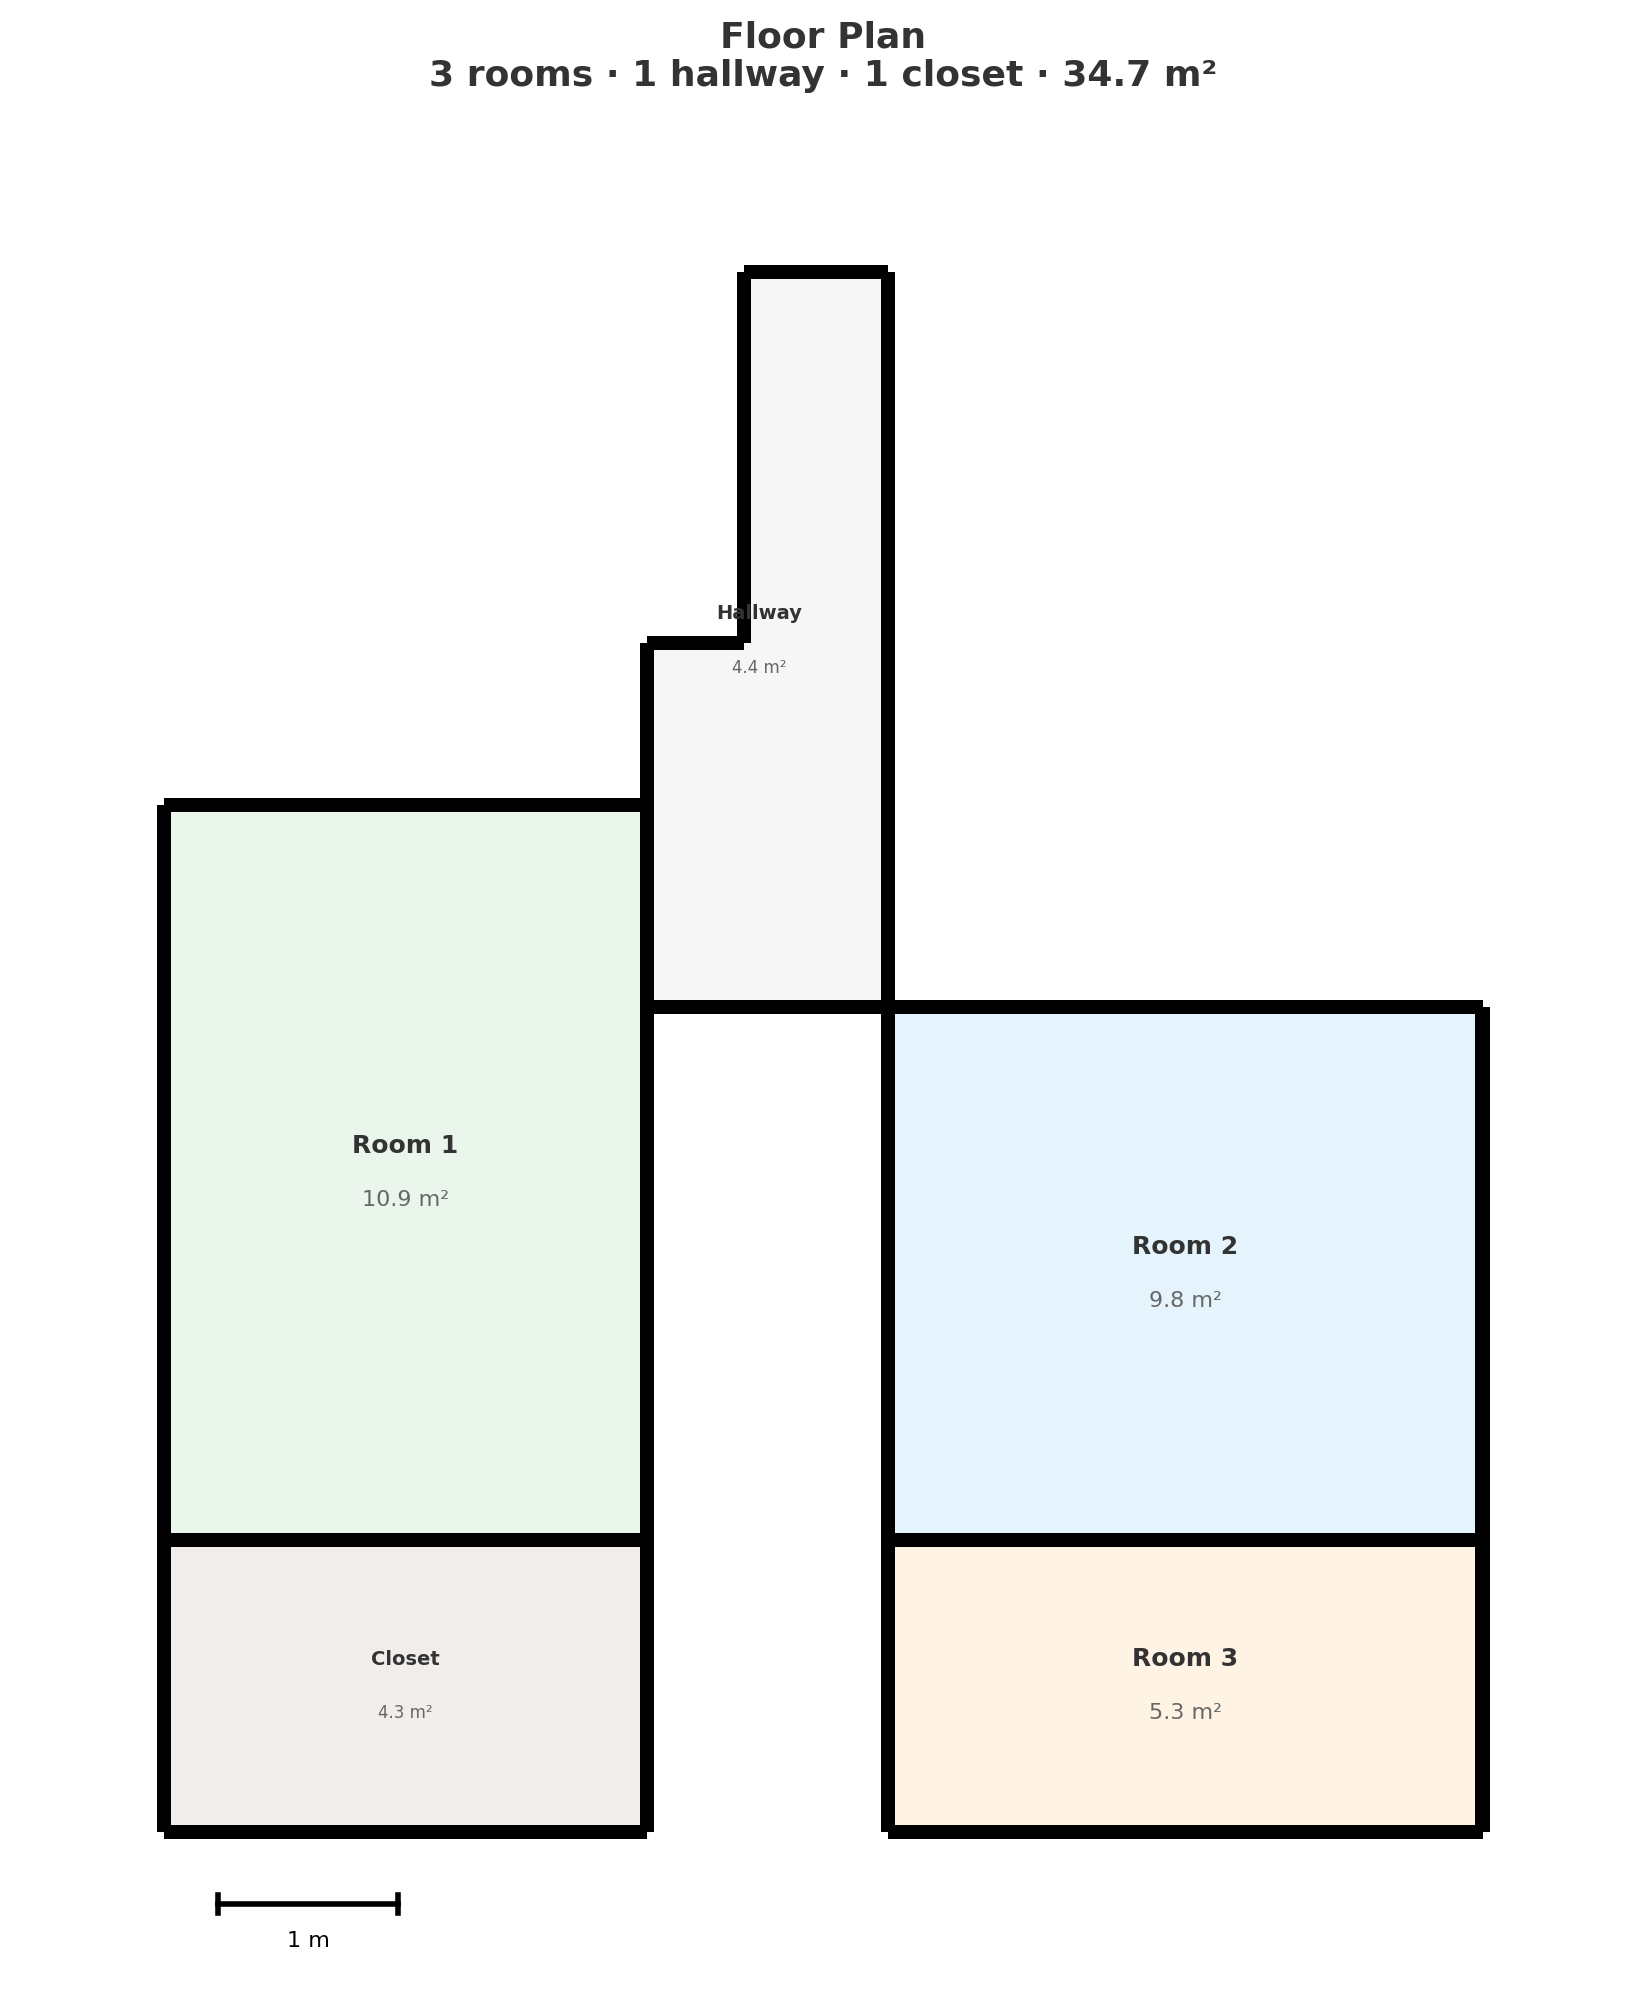
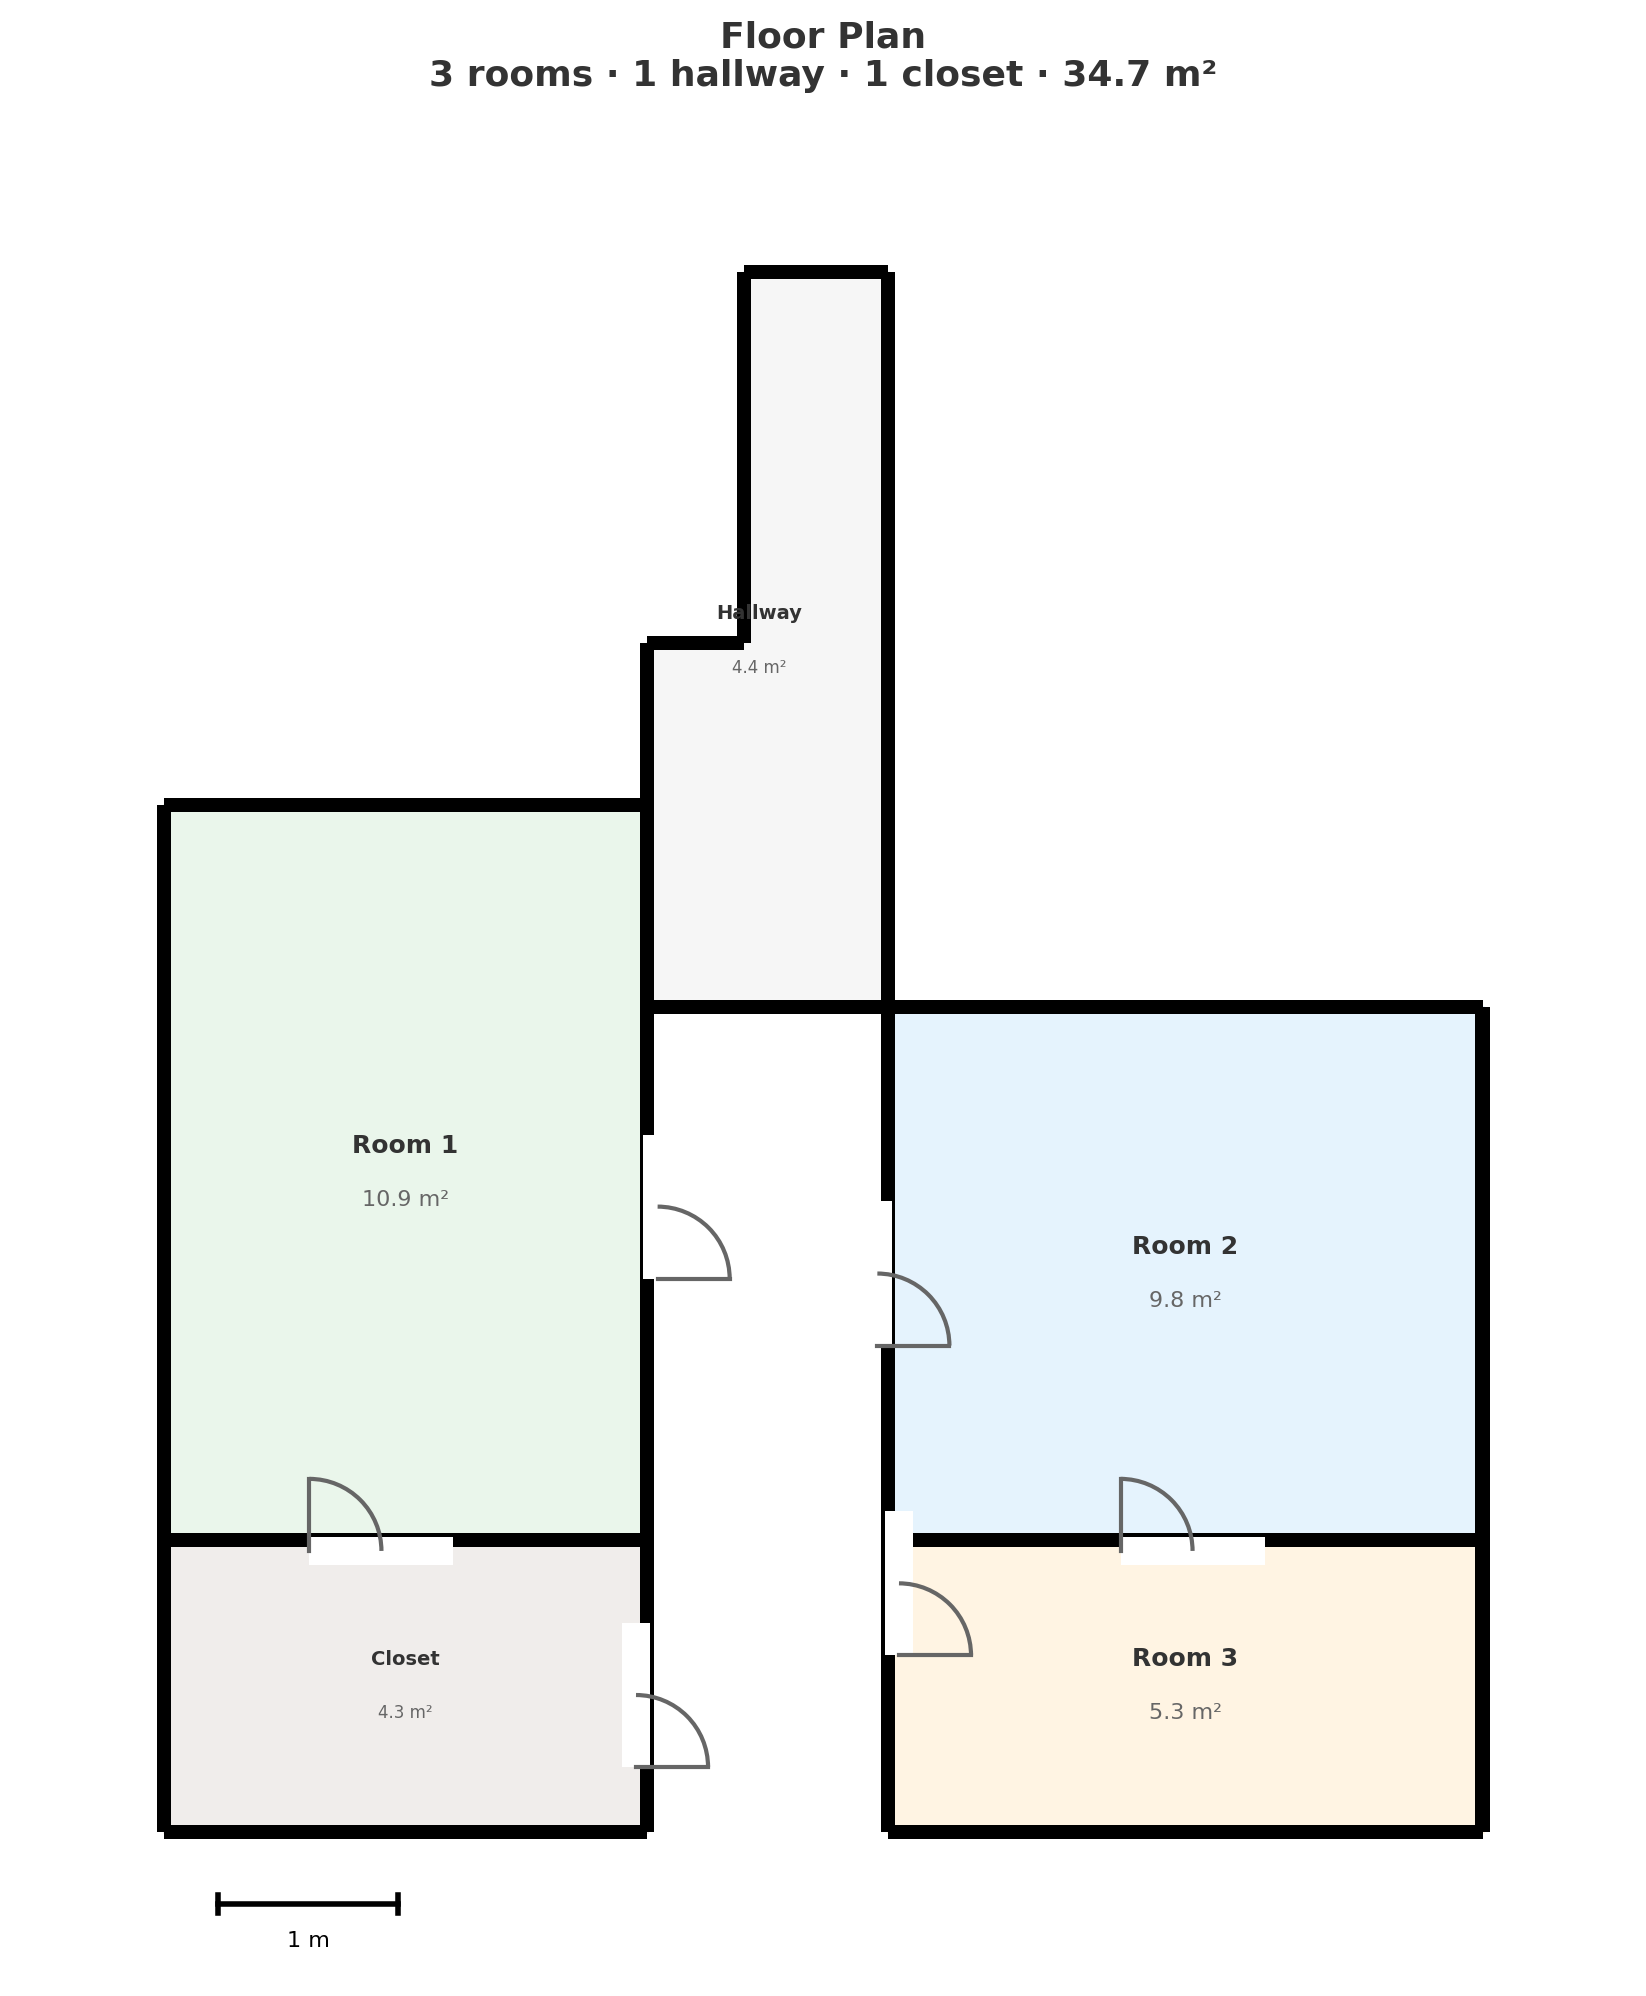
v32: door detection via mask adjacency, 6 doors found
Polygon edge matching failed due to wall-cut gaps between rooms.
Mask-based adjacency (dilate + overlap) successfully finds doors between:
Room 1↔Hallway, Room 2↔Hallway, Room 1↔Closet, Room 2↔Room 3, etc.

diff --git a/research/v32_strip_merge.py b/research/v32_strip_merge.py
@@ -457,19 +457,58 @@ def detect_doors(density_img, x_min, z_min, cs, rooms_data):
     doors = []
     for i in range(len(rooms_data)):
         pi = rooms_data[i]['polygon']
+        ni = rooms_data[i]['name']
         for j in range(i+1, len(rooms_data)):
             pj = rooms_data[j]['polygon']
-            # Check all edge pairs for shared walls
+            nj = rooms_data[j]['name']
             for ei in range(len(pi)):
                 a1, a2 = pi[ei], pi[(ei+1)%len(pi)]
                 for ej in range(len(pj)):
                     b1, b2 = pj[ej], pj[(ej+1)%len(pj)]
                     door = check_shared_edge_for_door(density_img, x_min, z_min, cs, a1, a2, b1, b2)
                     if door:
+                        print(f"    Door found: {ni} ↔ {nj} at ({door['x']:.2f}, {door['z']:.2f})")
                         doors.append(door)
+    
+    # Also detect doors on exterior walls (entrance)
+    # and between hallway and rooms using mask adjacency
+    if not doors:
+        print("    No doors found from polygon edges — trying mask adjacency")
+        for i in range(len(rooms_data)):
+            if 'mask' not in rooms_data[i]: continue
+            mi = rooms_data[i]['mask']
+            pi = rooms_data[i]['polygon']
+            ni = rooms_data[i]['name']
+            di = cv2.dilate(mi.astype(np.uint8), np.ones((15,15), np.uint8))
+            for j in range(i+1, len(rooms_data)):
+                if 'mask' not in rooms_data[j]: continue
+                mj = rooms_data[j]['mask']
+                nj = rooms_data[j]['name']
+                overlap = np.sum(di & mj)
+                if overlap > 0:
+                    # Rooms are adjacent — check for door on their shared boundary
+                    # Find the boundary region
+                    boundary = di & cv2.dilate(mj.astype(np.uint8), np.ones((3,3), np.uint8))
+                    brows, bcols = np.where(boundary)
+                    if len(brows) > 0:
+                        bx = x_min + bcols.mean() * cs
+                        bz = z_min + brows.mean() * cs
+                        # Check orientation
+                        x_spread = (bcols.max() - bcols.min()) * cs
+                        z_spread = (brows.max() - brows.min()) * cs
+                        if x_spread < z_spread:
+                            orientation = 'vertical'
+                        else:
+                            orientation = 'horizontal'
+                        doors.append({
+                            'x': bx, 'z': bz, 'width': 0.8,
+                            'orientation': orientation,
+                        })
+                        print(f"    Door (mask): {ni} ↔ {nj} at ({bx:.2f}, {bz:.2f})")
+    
     return doors
 
-def check_shared_edge_for_door(density_img, x_min, z_min, cs, a1, a2, b1, b2, tol=0.2):
+def check_shared_edge_for_door(density_img, x_min, z_min, cs, a1, a2, b1, b2, tol=0.35):
     """Check if two edges share a wall with a door gap."""
     sw = max(1, int(0.08/cs))
     
